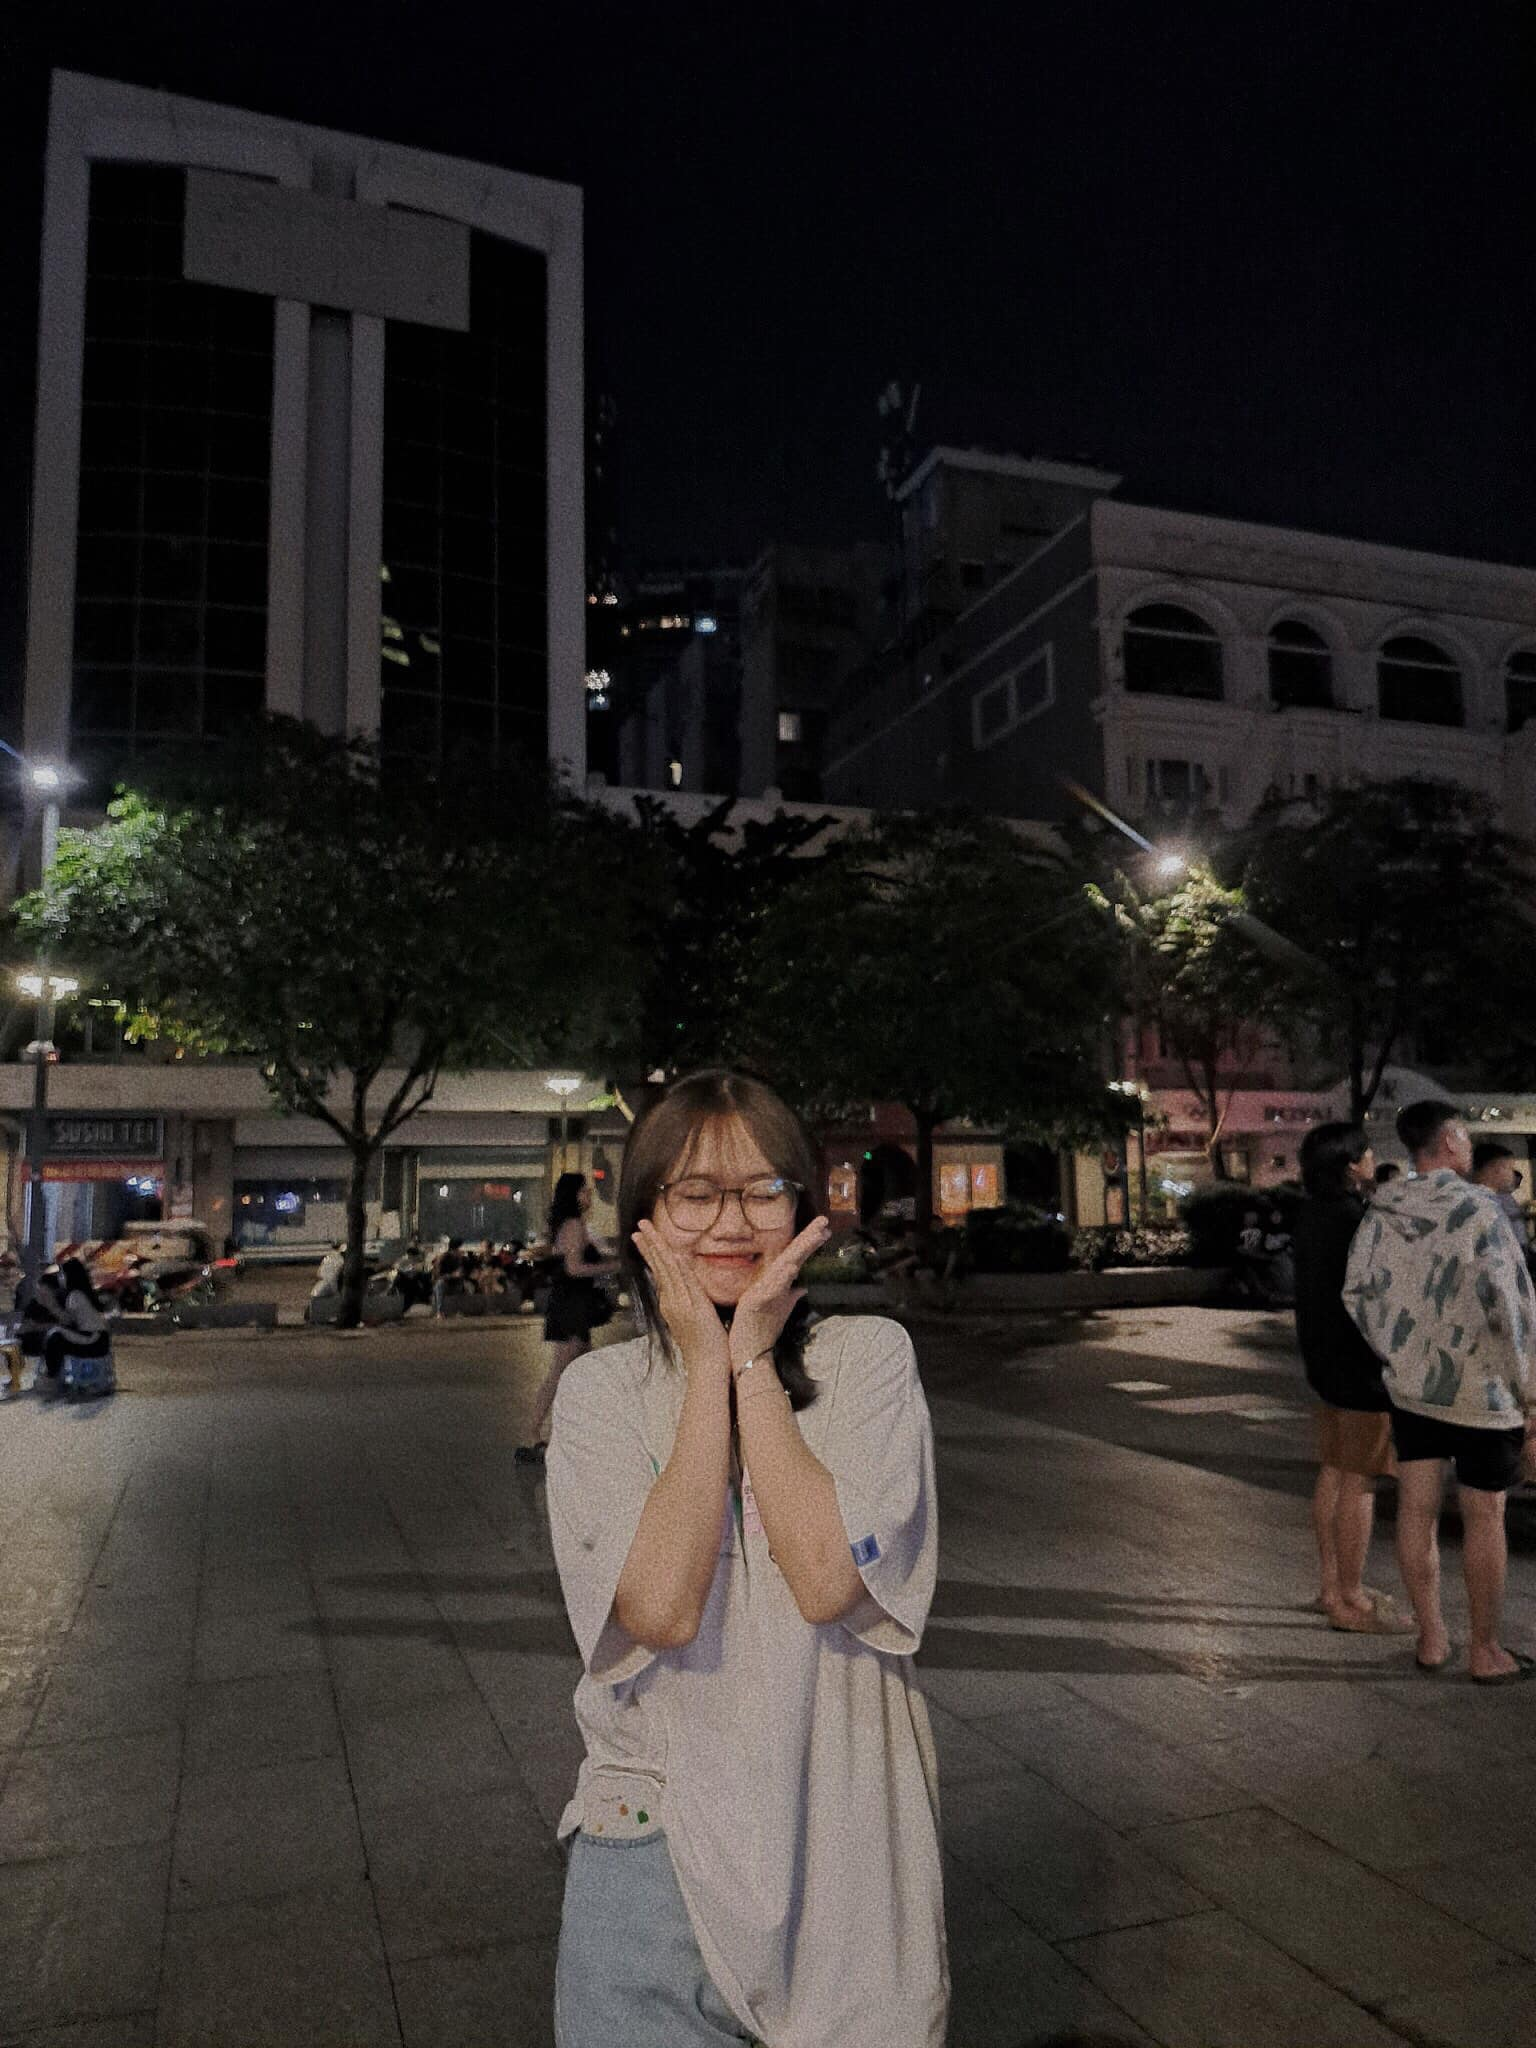
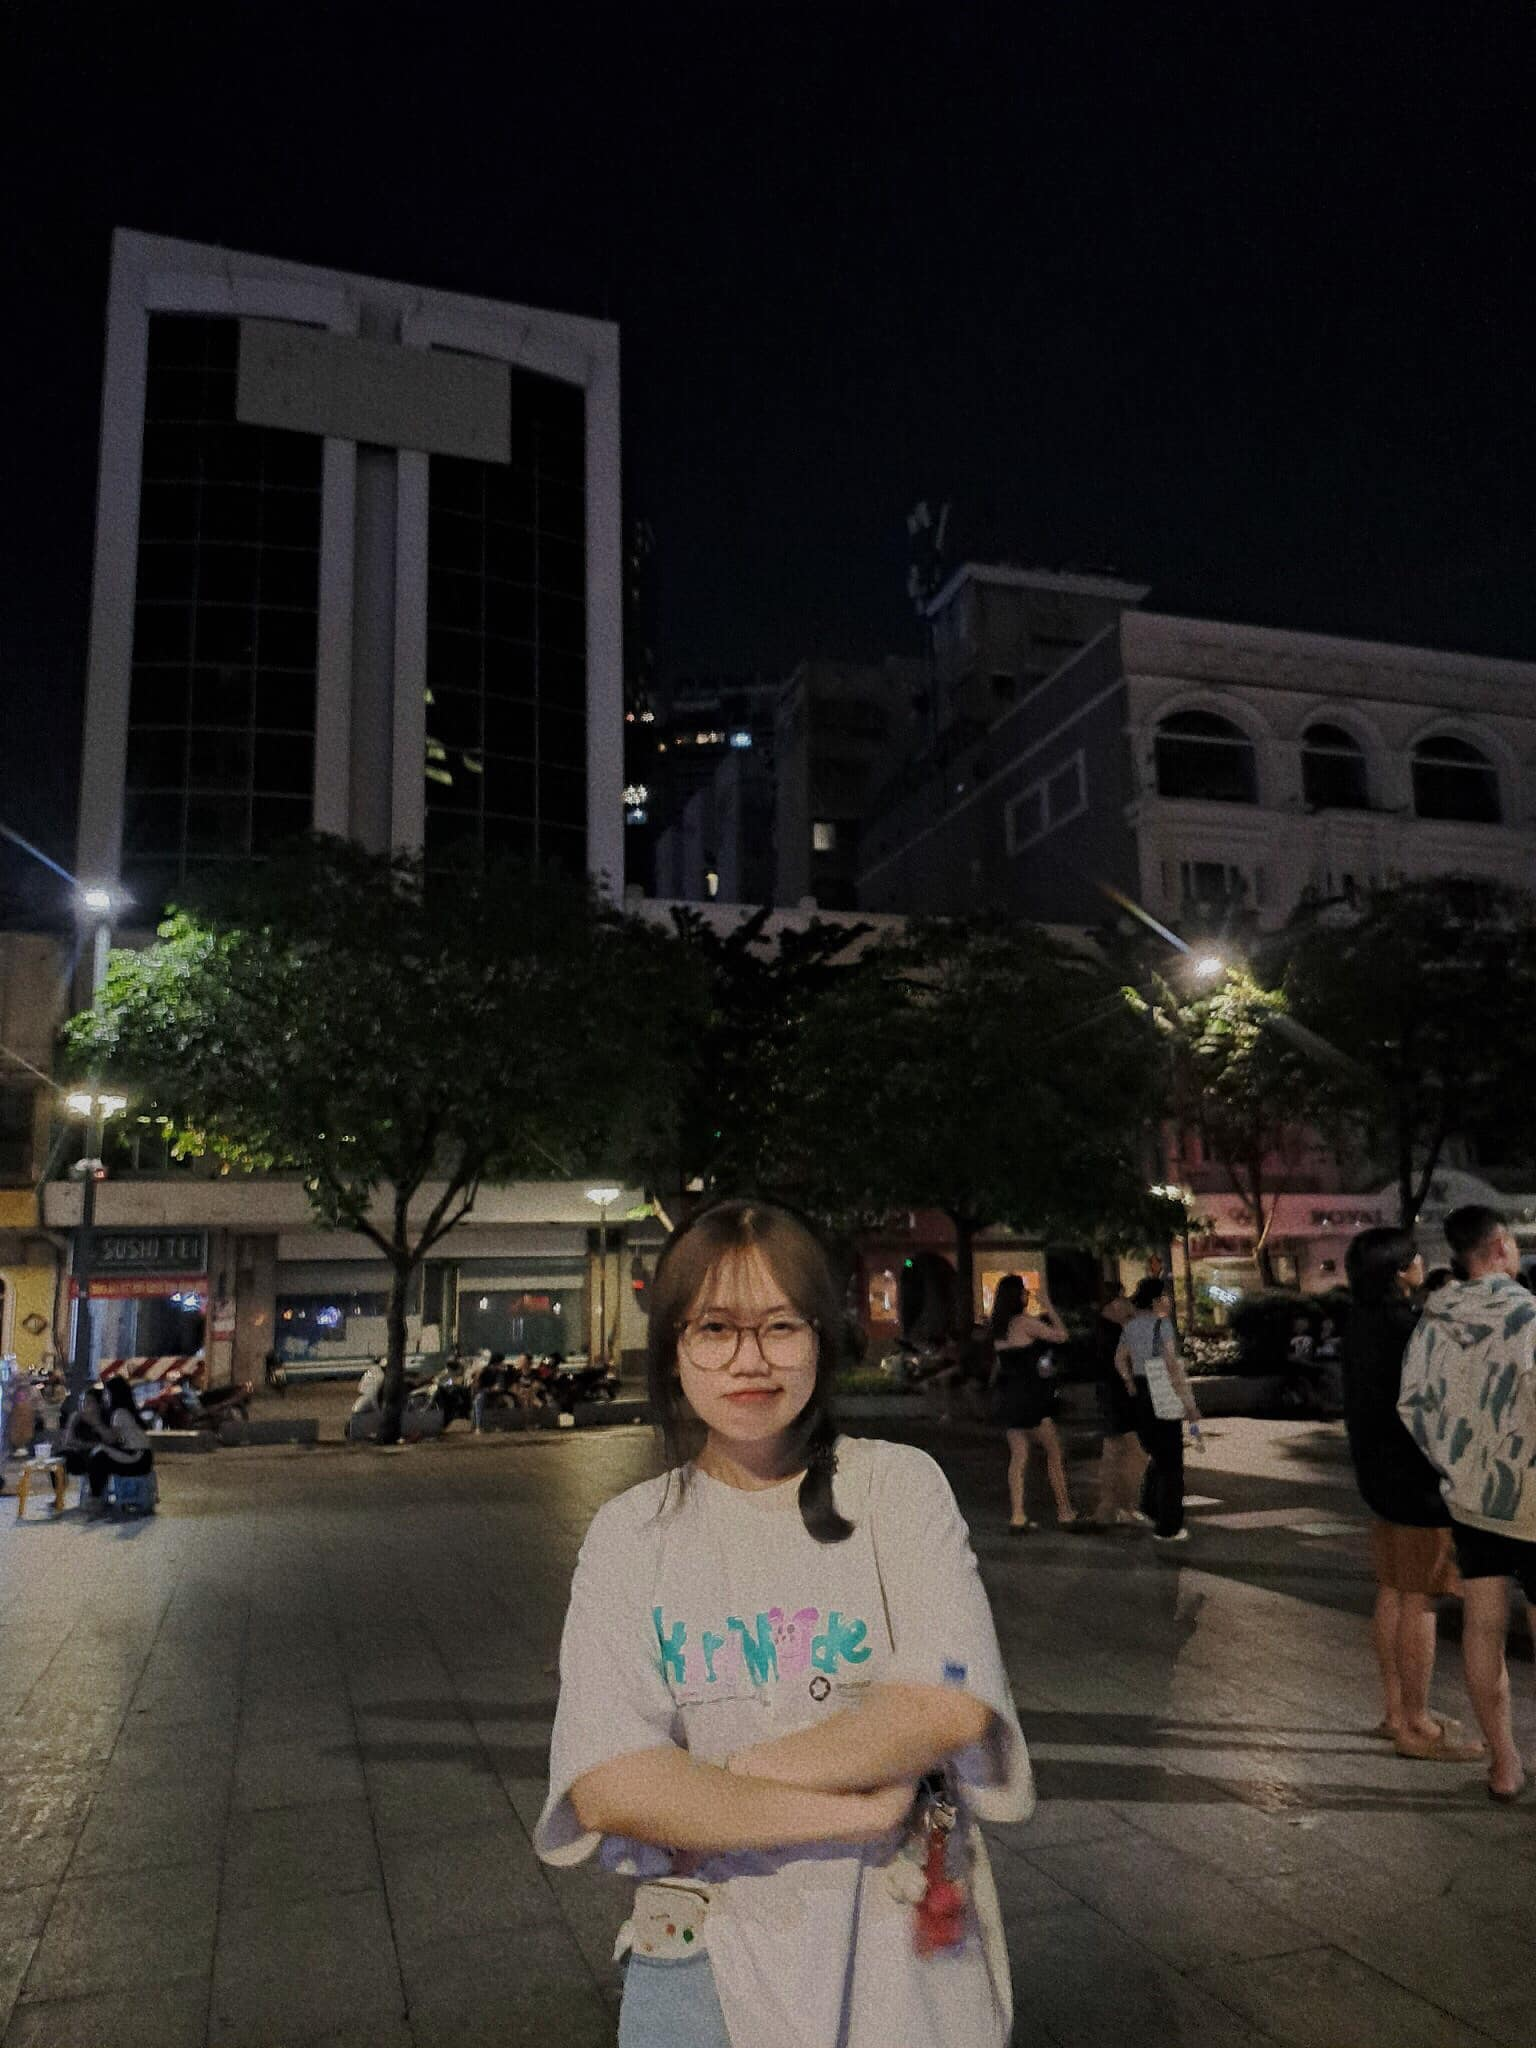
upload

diff --git a/style.css b/style.css
@@ -35,7 +35,7 @@
   
   .dashboard {
     padding: 16px 16px 14px;
-    background-image: url("/Music-Play/Image-music/395607447_1360875041206337_216597483705336736_n.jpg");
+    background-image: url("/Music-Play/Image-music/A2.jpg");
     background-repeat: no-repeat;
     background-position: center;
     background-size: cover;
